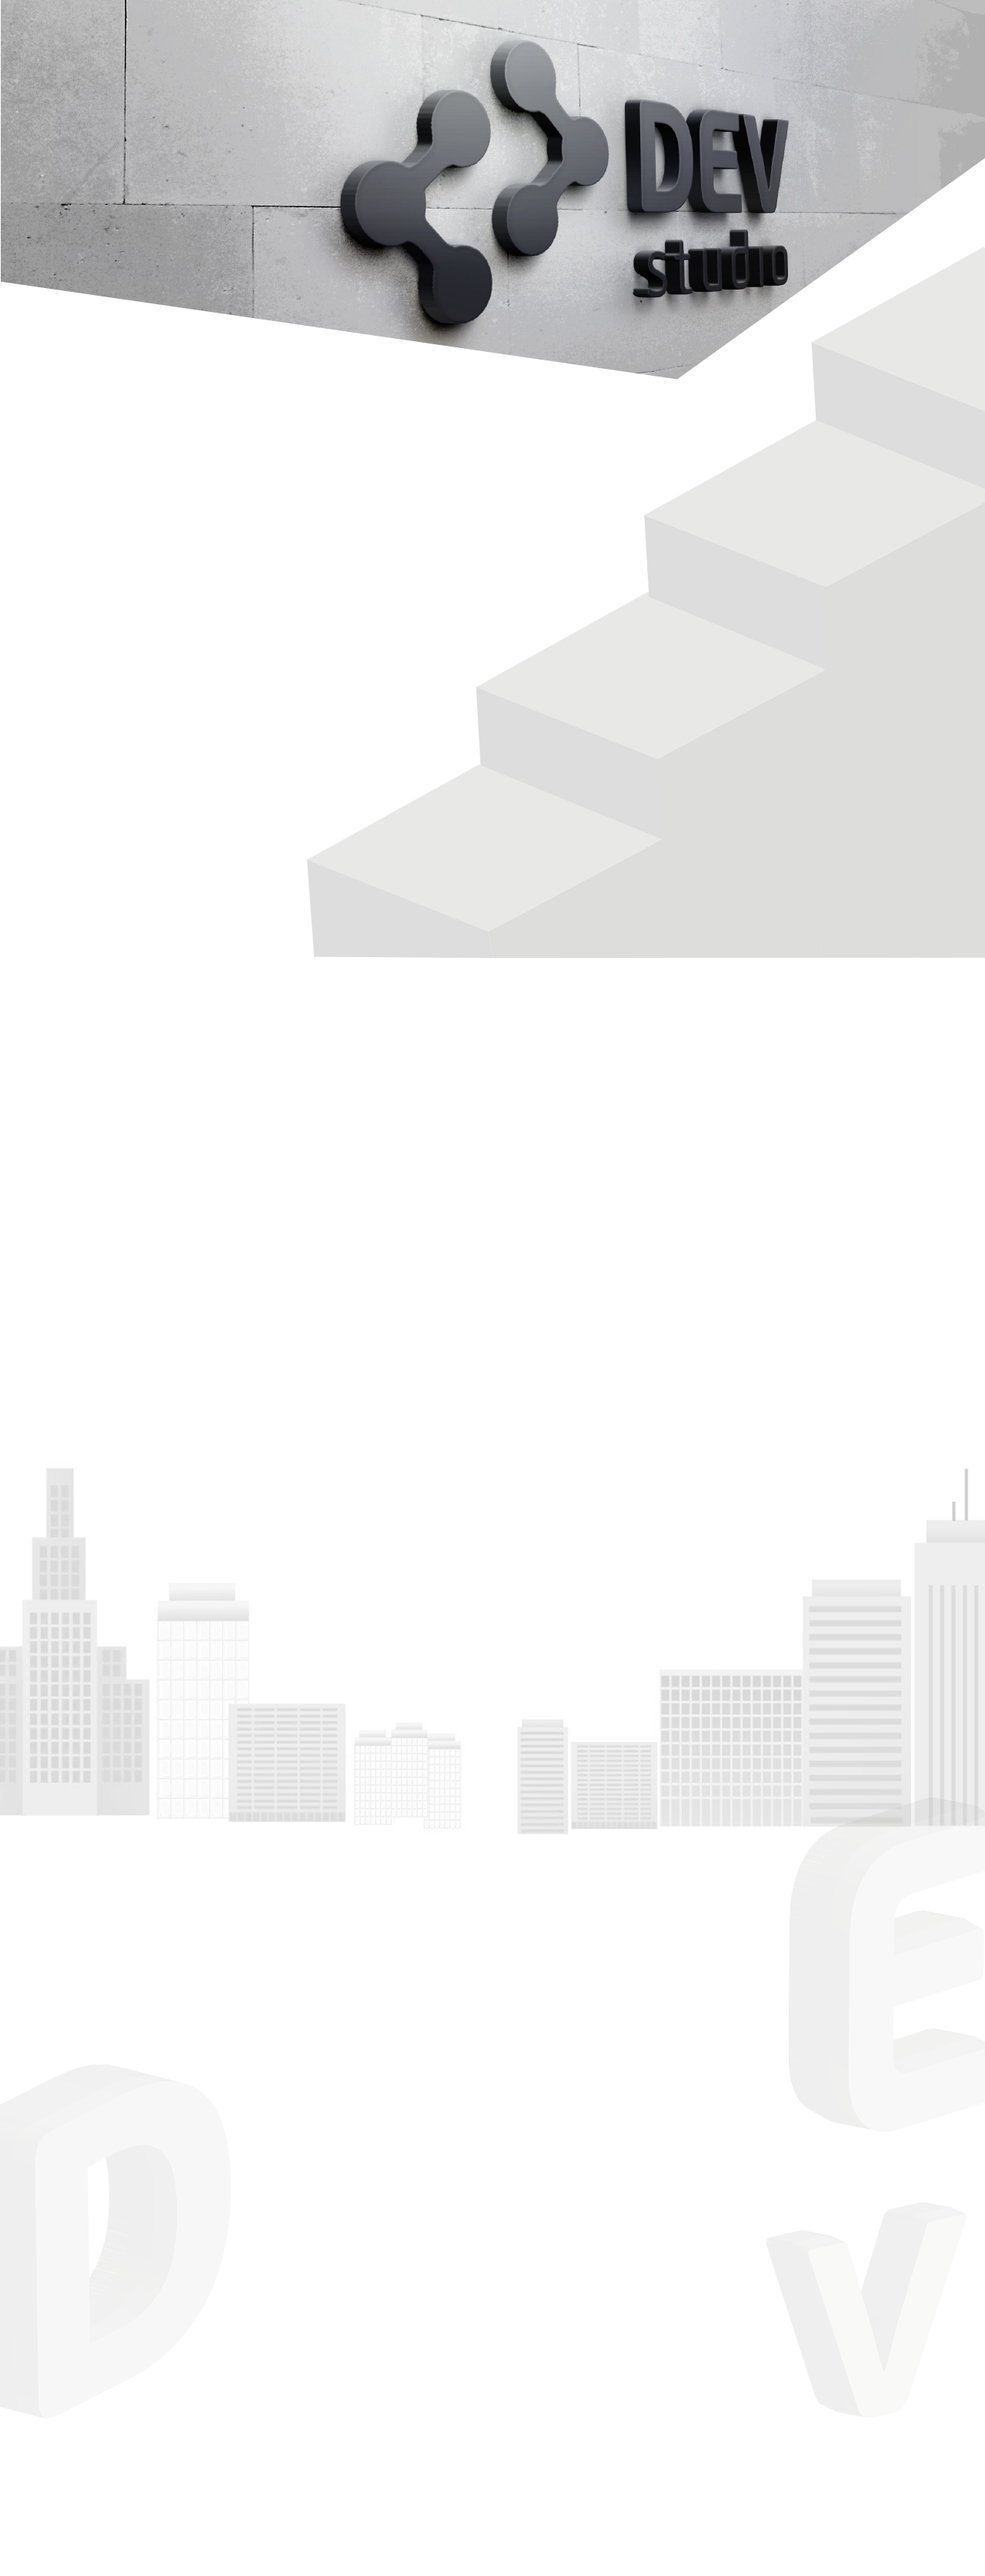
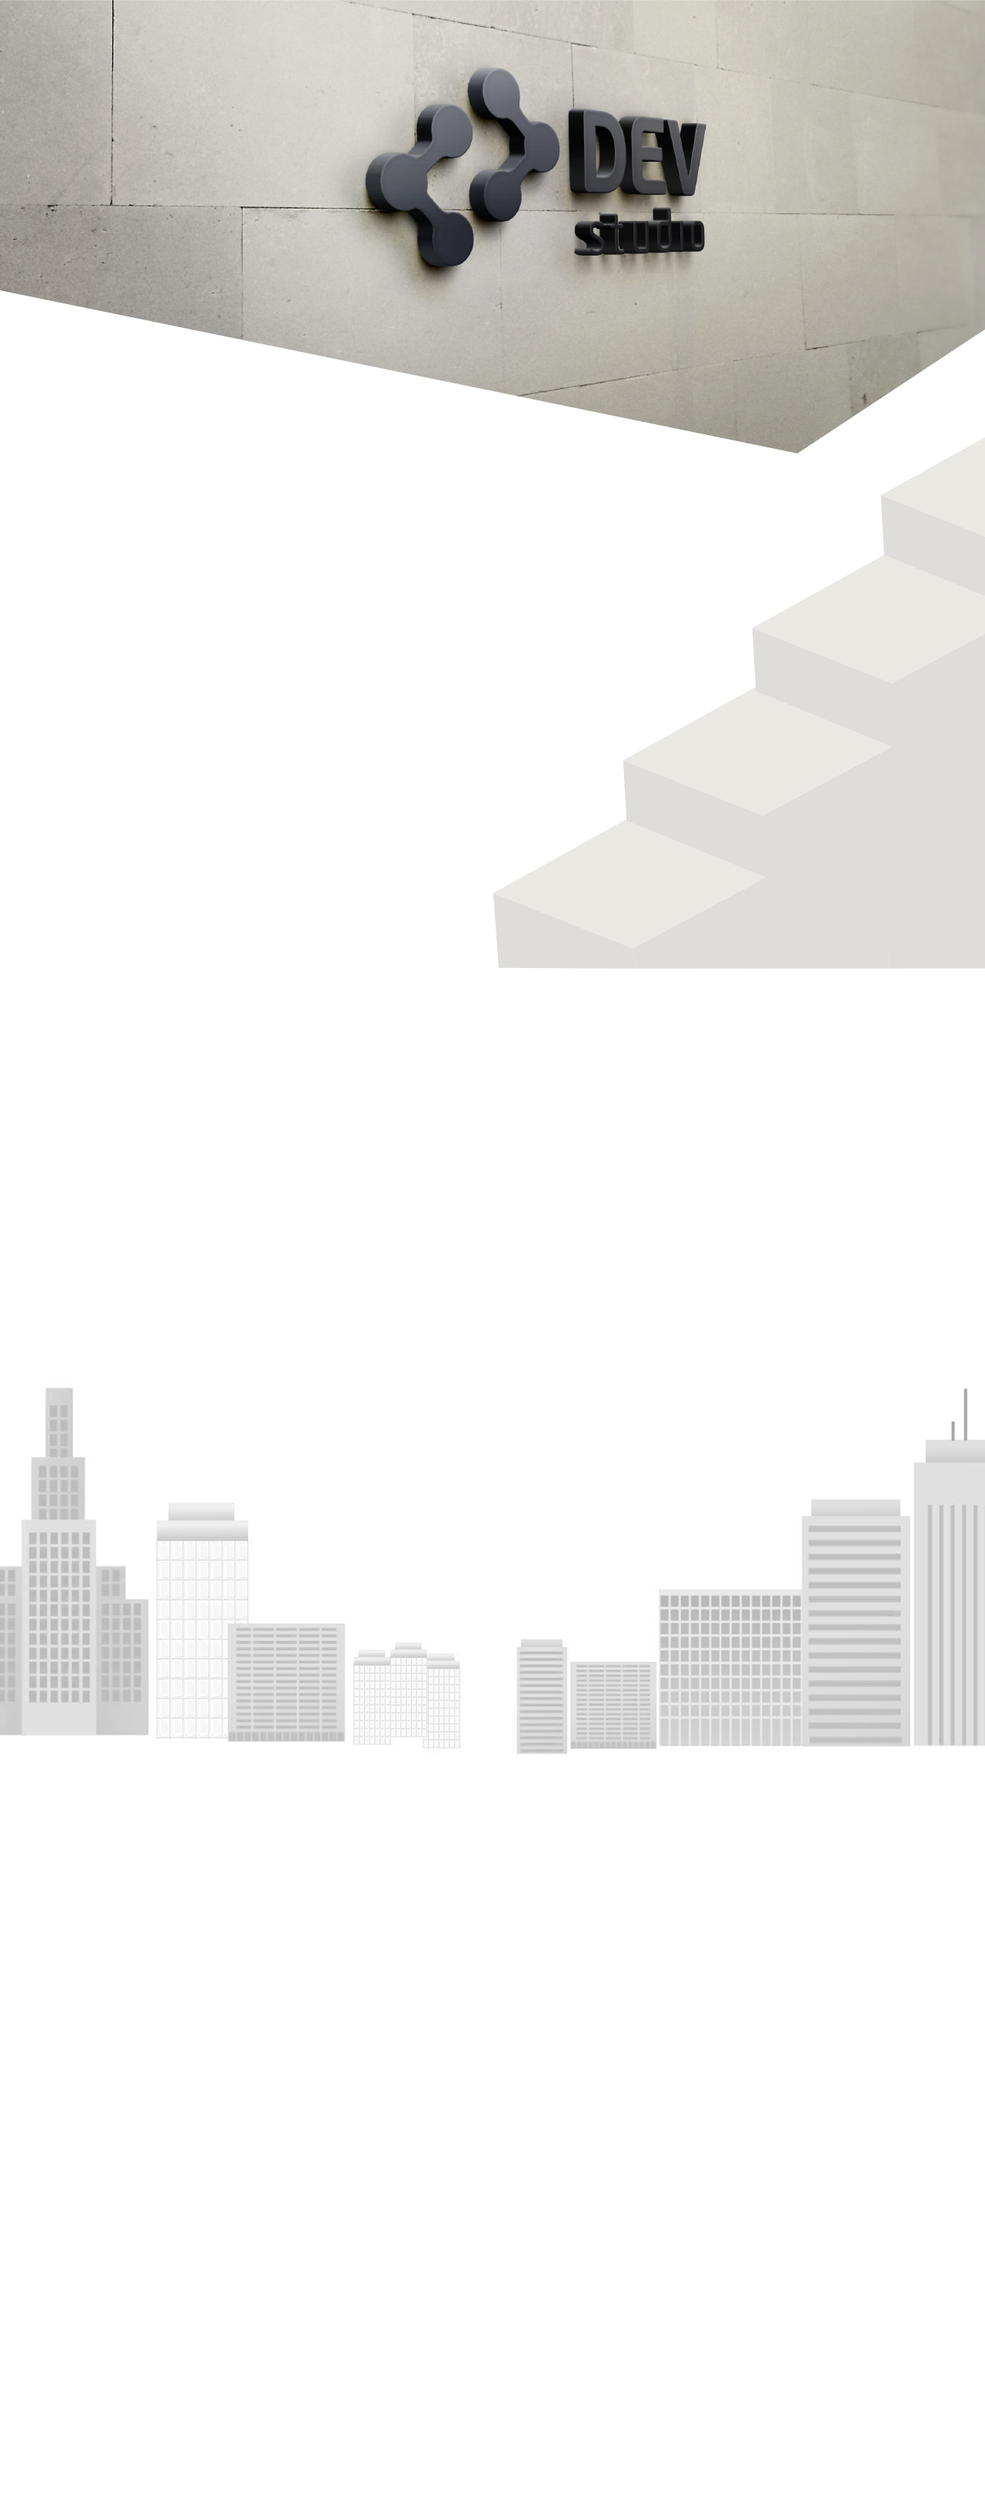
editDisignPartFirst

diff --git a/src/template/about_us.html b/src/template/about_us.html
@@ -1,7 +1,14 @@
 <section id="about_us" class="about_us">
     <div class="container">
-        <div class="label-about_us hidden-xs hidden-sm">
+        <!--<div class="label-about_us hidden-xs hidden-sm">
             <h1><span>П</span><span>р</span><span>о</span><span>н</span><span>а</span><span>с</span></h1>
+        </div>-->
+        <div class="row">
+            <div class="col-md-12">
+                <div class="col-md-5 lines"><span class="line"></span></div>
+                <h2 class="col-md-2">Про нас</h2>
+                <div class="col-md-5 lines"><span class="line"></span></div>
+            </div>
         </div>
         <div class="row">
             <div class="col-xs-12 col-md-4">
@@ -15,7 +22,7 @@
                             </h1>
                         </div>
                         <p>
-                            Учасники проекту працюють над продуктом під руководст- вом досвідчених тімліда, таким чином, вивчаючи нна практиці весь цикл розробки продукту. BIONIC University в рамках роз- витку концепції практичного навчання запустив власний проект по розробці програм- ного забезпечення програм- ного забезпечення.
+                            Учасники проекту працюють над продуктом під керівництвом досвідчених тімліда, таким чином, вивчаючи нна практиці весь цикл розробки продукту. BIONIC University в рамках розвитку концепції практичного навчання запустив власний проект по розробці програмного забезпечення програмного забезпечення.
                         </p>
                     </div>
 
@@ -35,7 +42,7 @@
                             </h1>
                         </div>
                         <p>
-                            Учасники проекту працюють над продуктом під руководст- вом досвідчених тімліда, таким чином, вивчаючи нна практиці весь цикл розробки продукту. BIONIC University в рамках роз- витку концепції практичного навчання запустив власний проект по розробці програм- ного забезпечення програм- ного забезпечення.
+                            Учасники проекту працюють над продуктом під керівництвом досвідчених тімліда, таким чином, вивчаючи нна практиці весь цикл розробки продукту. BIONIC University в рамках розвитку концепції практичного навчання запустив власний проект по розробці програмного забезпечення програм- ного забезпечення.
                         </p>
                     </div>
 
@@ -55,7 +62,7 @@
                             </h1>
                         </div>
                         <p>
-                            Учасники проекту працюють над продуктом під руководст- вом досвідчених тімліда, таким чином, вивчаючи нна практиці весь цикл розробки продукту. BIONIC University в рамках роз- витку концепції практичного навчання запустив власний проект по розробці програм- ного забезпечення програм- ного забезпечення.
+                            Учасники проекту працюють над продуктом під керівництвом досвідчених тімліда, таким чином, вивчаючи нна практиці весь цикл розробки продукту. BIONIC University в рамках розвитку концепції практичного навчання запустив власний проект по розробці програмного забезпечення програмного забезпечення.
                         </p>
                     </div>
                     <div class="about-img text-center">

diff --git a/src/sass/partials/_about_us.scss b/src/sass/partials/_about_us.scss
@@ -16,10 +16,10 @@
   margin-top: 30px;
 
   .btn-dev{
-    padding: 10px 25px;
+    padding: 12px 30px;
     font-size: 16px;
     margin-bottom: 15px;
-    font-size: 26px;
+    font-size: 14pt;
   }
 
   textarea{
@@ -163,10 +163,9 @@
     text-align: left;
   }
 }
-
 section.about_us{
   position: relative;
-  margin-top: 38%;
+  margin-top: 42.4%;
   width: 100%;
   height:auto;
   padding-bottom:30px;
@@ -178,7 +177,7 @@ section.about_us{
     position: relative;
     height: 0;
 
-    h1 {
+    /*h1 {
       font-size: 16px;
       letter-spacing: 4px;
       text-transform: uppercase;
@@ -232,43 +231,70 @@ section.about_us{
         top: 84px;
         left: 70px;
       }
-    }
+    }*/
+  }
+  h2{
+    font-family: 'PFBeauSansPro Bold', sans-serif;
+    font-size: 24px;
+    color: $dark-blue-green-color;
+    text-align: center;
+  }
+  .lines{
+    padding: 18px 0;
+  }
+  .lines:first-child{
+    padding-left: 26%;
+  }
+  .lines:last-child{
+    padding-right: 26%;
+  }
+  .line{
+    width: 100%;
+    height: 2px;
+    background-color: $dark-blue-base-color;
+    opacity: 0.6;
+    display: inline-block;
   }
 
   .about-item{
     height: 100%;
-    background-color: $gray-base-color;
-    border-right: 3px solid $dark-gray-base-color;
-    border-bottom: 8px solid $dark-gray-base-color;
+    background-color: $light-grey-purple-color;
+    /*border-right: 3px solid $dark-gray-base-color;
+    border-bottom: 8px solid $dark-gray-base-color;*/
+    box-shadow: 2px 2px 6px 0px $light-gray-color;
     display: flex;
     flex-direction: column;
     justify-content: flex-start;
     margin: 10px 0;
 
     img {
-      filter: grayscale(100%);
+      /*filter: grayscale(100%);*/
+      width: 86%;
     }
 
     &:hover{
       background-color: $blue-base-color;
       color:$default-color;
-      border-right: 3px solid #0f7492;
-      border-bottom: 8px solid #0f7492;
+      box-shadow: 0px 0px 0px 0px;
+      border-bottom: none;
       & svg {
         fill: $yellow-base-color;
       }
       .about-img, .about-img img{
         width:100%;
-        padding:0 5px 5px 5px ;
+        padding: 0;
         filter: none;
 
       }
       .about-article{
-        padding-bottom:10px;
+        padding-bottom: 2px;
       }
       
       p{
+        font-family: 'PFBeauSansPro Light', sans-serif;
+        font-size: 14pt;
         color: #fff;
+        line-height: 20px;
       }
     }
 
@@ -280,20 +306,23 @@ section.about_us{
 
     .about-article{
       flex-grow: 5;
-      padding:25px;
+      padding: 10px 25px 2px 25px;
 
     }
 
     p{
+      font-family: 'PFBeauSansPro Light', sans-serif;
       text-align: left;
       margin: 0;
-      font-size: 20px;
+      font-size: 14pt;
       color: black;
+      line-height: 20px;
     }
 
     .about-img{
-      padding-top: 40px;
-      padding-bottom:55px;
+      /*padding-top: 10px;*/
+      padding-top: 20px;
+      padding-bottom: 30px;
     }
   }
 

diff --git a/src/sass/partials/_header.scss b/src/sass/partials/_header.scss
@@ -11,20 +11,21 @@
     border: none;
 }
 
-.header .intership{
-    background-color: white;
-    width: 100%;
+.header .internship{
+    background-color: $yellow-base-color;
+    /*width: 100%;*/
+    text-align: center;
 }
 
 .header .navbar-brand{
-    padding: 5px 10px 5px 10px;
+    padding: 5px 10px;
 }
 
 .header li{
     height: 50px;
     font-size: 14pt;
-    margin: 0 0 0 80px;
-    padding: 15px 0;
+    /*margin: 0 0 0 80px;*/
+    padding: 15px 30px;
 }
 
 .header li:first-child{
@@ -34,6 +35,11 @@
 .header .navbar-blue .navbar-nav li a{
     color: white;
     padding: 0;
+}
+
+.header .small-menu .internship .nav.navbar-nav li{
+    padding-left: 45px;
+    padding-right: 45px;
 }
 
 .header .navbar-blue .navbar-nav li a:hover{
@@ -57,17 +63,17 @@
 	background-color: #f7c008;
 }
 
-.header .intership .nav li a{
+.header .internship .nav li a{
     color: $dark-blue-base-color;
 }
 
-.header .intership .nav li {
+.header .internship .nav li {
     float: none;
     padding-left: 15px;
 }
 
-.header .intership .nav li a:hover{
-    color: #171d3e;
+.header .internship .nav li a:hover{
+    color: $default-color;
     border: none;
 }
 
@@ -87,15 +93,17 @@
 }
 
 @media(max-width: 1200px){
-    .header li{margin: 0 0 0 40px;}
+    .header li{padding: 15px 20px;}
 }
 
 @media(max-width: 1000px){
-    .header li{margin: 0 0 0 20px;}
+    .header li{padding: 15px 10px;}
+    .header .small-menu .internship .nav.navbar-nav li{padding-left: 30px; padding-right: 30px;}
 }
 
 @media(max-width: 767px){
-    .header li{margin: 0;}
+    .header li{padding: 15px 10px;}
+    .header .small-menu .internship .nav.navbar-nav li{padding-left: 20px; padding-right: 20px;}
     .white_block{display: none;}
 }
 

diff --git a/src/template/header.html b/src/template/header.html
@@ -16,7 +16,7 @@
                 <div class="col-md-6 col-sm-7">
                     <div class="collapse navbar-collapse dev-navbar-collapse" id="bs-example-navbar-collapse-1">
                         <ul class="nav navbar-nav">
-                            <li ><a href="#about_us">Про нас</a></li>
+                            <li><a href="#about_us">Про нас</a></li>
                             <li><a href="#services">Послуги</a></li>
                             <li><a href="#projects">Проекти</a></li>
                             <li><a href="#contacts">Контакти</a></li>
@@ -24,9 +24,9 @@
                     </div>
                 </div>
                 <div class="col-md-2 col-sm-2 small-menu">
-                    <div class="collapse navbar-collapse navbar-header intership dev-navbar-collapse ">
+                    <div class="collapse navbar-collapse navbar-header internship dev-navbar-collapse ">
                         <ul class="nav navbar-nav">
-                            <li><a href="http://128.0.169.5:8888/intership/">Інтернатура</a></li>
+                            <li><a href="http://128.0.169.5:8888/internship/">Інтернатура</a></li>
                         </ul>
                     </div>
                 </div>

diff --git a/src/sass/partials/_common.scss b/src/sass/partials/_common.scss
@@ -3,7 +3,7 @@ html {
 }
 
 body>.dev-studio>section{
-  padding-top: 150px;
+  padding-top: 50px;
   padding-bottom: 75px;
 }
 
@@ -16,10 +16,10 @@ body{
 }
 
 .dev-studio{
-  background-image: url("../img/dev.jpg");
+  background-image: url("../img/dev.png");
   background-repeat: no-repeat;
   background-size: 100%;
-  margin-top: 50px;
+  margin-top: 16px;
   flex: 1 0 auto;
 }
 
@@ -43,11 +43,14 @@ body{
 //   font-family: 'PFBeauSansPro Black';
 //   src: url('../fonts/PFBeauSansPro/PFBeauSansPro-Black.ttf')  format('truetype'),
 // }
-
-// @font-face {
-//   font-family: 'PFBeauSansPro Light';
-//   src: url('../fonts/PFBeauSansPro/PFBeauSansPro-Light.ttf')  format('truetype'),
-// }
+ @font-face {
+   font-family: 'PFBeauSansPro Bold';
+   src: url('../fonts/PFBeauSansPro/PFBeauSansPro-Bold.ttf')  format('truetype'),
+ }
+ @font-face {
+   font-family: 'PFBeauSansPro Light';
+   src: url('../fonts/PFBeauSansPro/PFBeauSansPro-Light.ttf')  format('truetype'),
+ }
 // @font-face {
 //   font-family: 'PFBeauSansPro Reg';
 //   src: url('../fonts/PFBeauSansPro/PFBeauSansPro-Reg.ttf')  format('truetype');

diff --git a/src/sass/partials/_variables.scss b/src/sass/partials/_variables.scss
@@ -7,11 +7,12 @@ $dark-blue-base-color: #212955;
 $dark-gray-base-color: #848381;
 $default-color: #ffffff;
 $dark-blue-green-color: #3e4244;
-
+$light-gray-color: #d5d3d3;
+$light-grey-purple-color: #f3f0f0;
 
 //button
 $btn-dev-color:              #ffffff ;
-$btn-dev-bg:                 $blue-base-color ;
+$btn-dev-bg:                 $dark-blue-base-color ;
 $btn-dev-border:             $blue-base-color ;
 $btn-dev-bg-hover:           $dark-blue-base-color;
 
